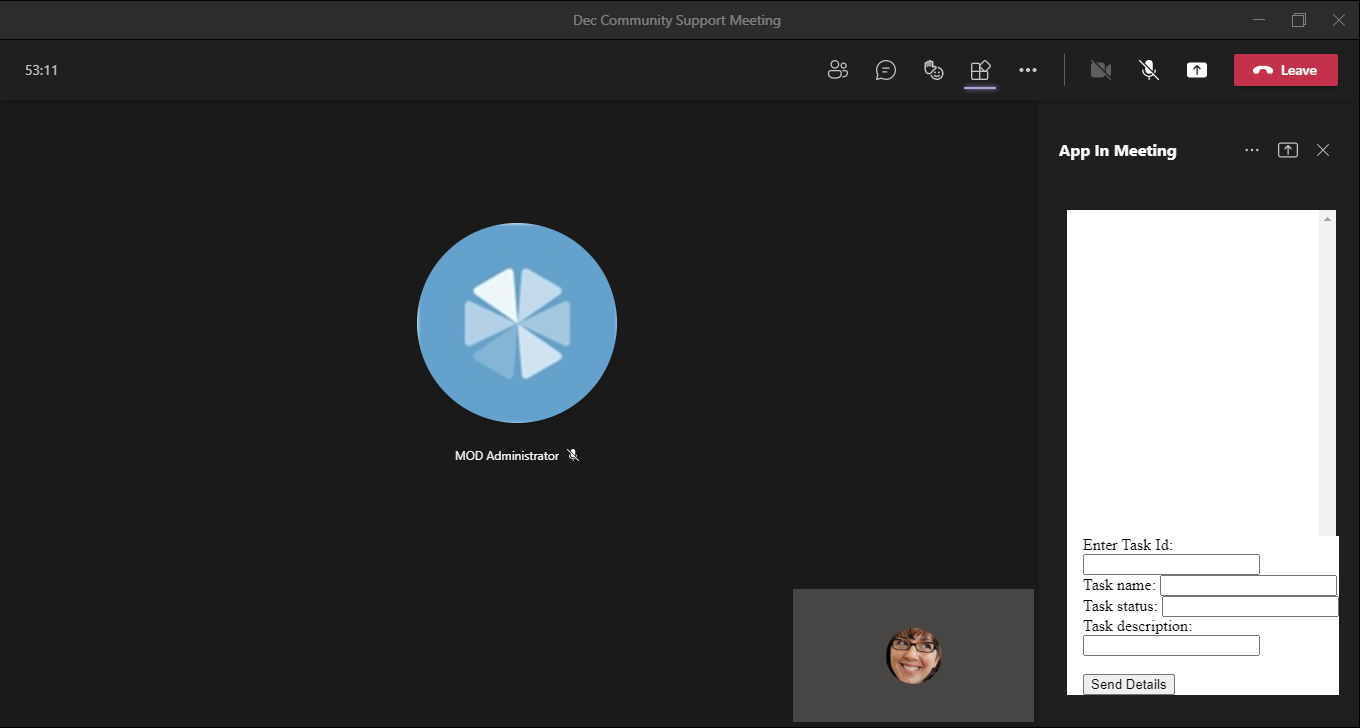
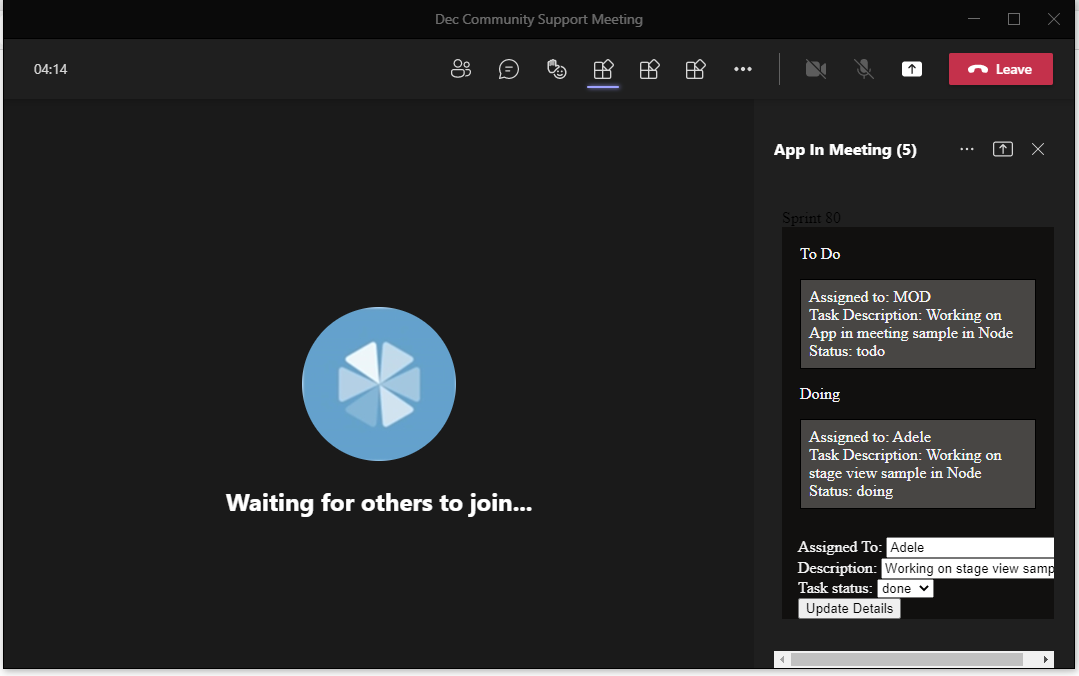
Comment fixes and Added side panel UI fix

diff --git a/samples/app-in-meeting/nodejs/static/styles.css b/samples/app-in-meeting/nodejs/static/styles.css
@@ -1,117 +1,130 @@
 .chat-input {
-    width: 300px;
-    height: 35px;
-    border: solid 1px #444;
-  }
-
-  .chat-submit {
-    width: 50px;
-    height: 35px;
-    border: solid 1px #444;
-  }
-
-  #chatSection {
-    float: left;
-  }
-
-  .chat-window {
-    height: 65vh;
-    width: 96vw;
-    overflow-y: scroll;
-    background-color: #fff;
-    display: grid;
-    grid-template-columns: auto auto auto;
-    padding: 10px;
-    }
-
-  .chatSection .chat-window {
-    height: 5vh;
-    width: 8vw;
-    overflow-y: scroll;
-    background-color: #fff;
-  }
-
-  .chatSection .chat-form {
-    width: 8vw;
-    margin-left: -1rem;
-  }
-
-  .chatSectionStage {
-    margin: 1rem;
-  }
-
-  .chat-form {
-    position: fixed;
-    bottom: 2rem;
-    display: grid;
-    background-color: #fff;
-    width: 94vw;
-    padding-left: 1rem;
-  }
-
-  .send-button {
-    width: fit-content;
-  }
-
-  .chatSectionStage .chat-label {
-    margin-bottom: 0.5rem;
-    display: block;
-  }
-
-  .chatSection .chat-label{
-    display: inline-grid;
-  }
-
-  .chatSection .task-id {
-    margin-left: 0rem;
-  }
-
-  .chatSectionStage .task-id {
-    margin-left: 2rem;
-  }
-
-  .chatSectionStage .task-name {
-    margin-left: 3.1rem;
-  }
-
-  .chatSectionStage .task-status {
-    margin-left: 2.9rem;
-  }
-
-  .chatSectionStage .task-description {
-    margin-left: 0.7rem;
-  }
-
-  .chatSection .task-name {
-    margin-left: 1rem;
-  }
-
-  .chatSection .task-status {
-    margin-left: 1rem;
-  }
-
-  .chatSection .task-description {
-    margin-left: 0rem;
-  }
-  .details {
-    border:1px solid black;
-    margin-bottom:1rem;
-    margin-right:0.5rem;
-    padding-top:0.5rem;
-    content: "";
-    display: table;
-    clear: both;
+  width: 300px;
+  height: 35px;
+  border: solid 1px #444;
 }
 
-.column {
-  float: left;
-  width: 31%;
+.chat-submit {
+  width: 50px;
+  height: 35px;
+  border: solid 1px #444;
+}
+
+.chat-window {
+  height: 60vh;
+  width: 96vw;
+  overflow-y: scroll;
+  background-color: #11100f;
+  display: grid;
+  grid-template-columns: auto auto auto;
+  padding: 10px;
+  color: #f5f5f5;
+}
+
+.chat-window-sidepanel {
+  height: 60vh;
+  width: 96vw;
+  overflow-y: scroll;
+  background-color: #11100f;
+  padding: 10px;
+  color: #f5f5f5;
+}
+
+.chatSection {
+  overflow-y: scroll;
   background-color: #fff;
 }
 
-/* Clear floats after the columns */
-.row:after {
-  content: "";
-  display: table;
-  clear: both;
+.grid-item {
+  height: 10vh;
+  color: #f5f5f5;
+  width: 25vw;
+  padding: 0.5rem;
+}
+
+.grid-item-sidepanel {
+  color: #f5f5f5;
+  padding: 0.5rem;
+}
+
+.chatSection .chat-form {
+  width: 8vw;
+  margin-left: -1rem;
+  background-color: #11100f;
+}
+
+.chatSectionStage {
+  margin: 1rem;
+}
+
+.chat-form {
+  position: fixed;
+  bottom: 2rem;
+  display: grid;
+  background-color: #fff;
+  width: 96vw;
+  padding-left: 1rem;
+  background-color: #11100f;
+  color: #f5f5f5;
+  padding-top: 1em;
+}
+
+.send-button {
+  width: fit-content;
+}
+
+.chatSectionStage .chat-label {
+  margin-bottom: 0.5rem;
+  display: block;
+}
+
+.chatSection .chat-label {
+  display: inline-grid;
+}
+
+.chatSection .task-id {
+  margin-left: 0rem;
+}
+
+.chatSectionStage .task-id {
+  margin-left: 2rem;
+}
+
+.chatSectionStage .user-name {
+  margin-left: 2.1rem;
+}
+
+.chatSectionStage .task-status {
+  margin-left: 2.9rem;
+}
+
+.chatSectionStage .task-description {
+  margin-left: 0.7rem;
+}
+
+.chatSection .user-name {
+  margin-left: 1rem;
+}
+
+.chatSection .task-status {
+  margin-left: 1rem;
+}
+
+.chatSection .task-description {
+  margin-left: 0rem;
+}
+
+.details {
+  border: 1px solid black;
+  background-color: #484644;
+  margin-top: 1rem;
+  padding: 0.5rem;
+}
+
+.details-sidepanel {
+  width: 100vw;
+  border: 1px solid black;
+  background-color: #484644;
+  margin-top: 1rem;
+  padding: 0.5rem;
 }

diff --git a/README.md b/README.md
@@ -120,7 +120,7 @@
 |8|App Localization | Microsoft Teams app localization using Bot and Tab |[View][app-localization#cs]  | [View][app-localization#js]
 |9|Details Tab in Meeting | Microsoft Teams meeting extensibility sample for iteracting with Details Tab in-meeting |[View][meetings-details-tab#cs]  |[View][meetings-details-tab#js]
 |10|App SSO | Microsoft Teams app SSO for Tab, Bot, ME - search, action, linkunfurl |[View][app-sso#cs] |[View][app-sso#js] 
-|10|App in meeting | This example shows app to add before, after and during a meting  ||[View][app-in-meeting#js]
+|11|App in meeting | This example shows how to add app before, after or during the meeting  ||[View][app-in-meeting#js]
 
 [app-hello-world#cs]:samples/app-hello-world/csharp
 [app-hello-world#ts]:samples/app-hello-world/nodejs

diff --git a/samples/app-in-meeting/nodejs/Readme.md b/samples/app-in-meeting/nodejs/Readme.md
@@ -55,3 +55,6 @@ This sample app demonstarte the addtion of app during, before and after a meetin
 
 
    ![](Images/InStageView.png)
+
+
+   ![](Images/MainScreen.png)
